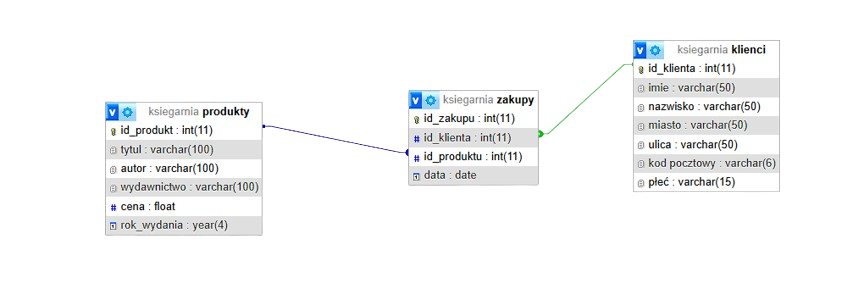
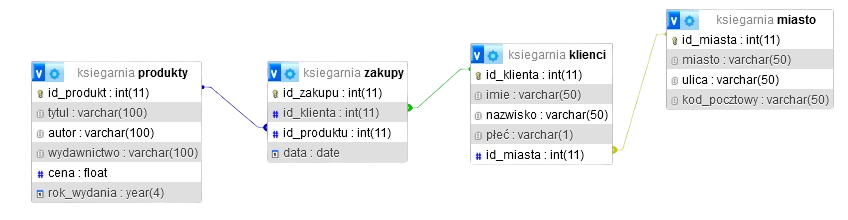
nice

Changed region(s): [[0.0307, 0.0273, 1.0, 0.9273]]

diff --git a/style.css b/style.css
@@ -1,7 +1,7 @@
 html, body {
-    background-color: #F72C5B;
+    background-color: gray;
     margin: 0;
-    font-family: Arial, sans-serif;
+    font-family: 'Lato', sans-serif;
     height: 100%;
 }
 
@@ -130,6 +130,10 @@ input[type="submit"]:hover, input[type="reset"]:hover {
 input[type="submit"]:active, input[type="reset"]:active {
     background-color: #003f7f;
     transform: scale(1);
+}
+
+.input-group input.same-length {
+    width: 200px; /* Ustaw szerokość dla pól wprowadzania */
 }
 
 .table-container {

diff --git a/wprowadz.php b/wprowadz.php
@@ -6,6 +6,7 @@
     <meta name="viewport" content="width=device-width, initial-scale=1.0">
     <title>Księgarnia</title>
     <link rel="icon" href="./image/books.png" type="image/x-icon">
+    <link href="https://fonts.googleapis.com/css2?family=Lato:wght@400;700&display=swap" rel="stylesheet">
 </head>
 <body>
     <header>
@@ -22,22 +23,21 @@
             <a href="./kasuj1.php" class="button-link">Skasuj dane książki</a>
             <a href="./mod.php" class="button-link">Modyfikuj dane klienta</a>
             <a href="./raport.php" class="button-link">Raport ze sprzedaży</a>
-            <a href="./zakupy.php" class="button-link">Zakup</a>
         </aside>
         <main>
             <form action="wprowadz.php" method="post">
                 <h2>Wprowadź dane klienta</h2>
 
                 <div class="input-group">
-                    <p>Imię: </p> <input type="text" name="name">
-                    <p>Nazwisko: </p> <input type="text" name="surname">
-                    <p>Płeć: </p> <input type="text" name="gender">
+                    <p>Imię: </p> <input type="text" name="name" class="same_lenght">
+                    <p>Nazwisko: </p> <input type="text" name="surname" class="same_lenght">
+                    <p>Płeć: </p> <input type="text" name="gender" class="same_lenght">
                 </div>
 
                 <div class="input-group">
-                    <p>Miasto: </p> <input type="text" name="city">
-                    <p>Ulica: </p> <input type="text" name="street">
-                    <p>Kod pocztowy: </p> <input type="text" name="zip">
+                    <p>Miasto: </p> <input type="text" name="city" class="same_lenght">
+                    <p>Ulica: </p> <input type="text" name="street" class="same_lenght">
+                    <p>Kod pocztowy: </p> <input type="text" name="zip" class="same_lenght">
                 </div>
 
                 <br><br>
@@ -46,6 +46,10 @@
 
                 <?php
                 $conn = mysqli_connect("localhost", "root", "", "ksiegarnia");
+                if (!$conn) {
+                    die("<h3>Nie udało się połączyć z bazą danych: " . mysqli_connect_error() . "</h3>");
+                }
+
                 if ($_SERVER["REQUEST_METHOD"] == "POST") {
                     
                     $name = $_POST["name"];
@@ -53,25 +57,30 @@
                     $gender = $_POST["gender"];
                     $city = $_POST["city"];
                     $street = $_POST["street"];
-                    $zip = $_POST["zip"];
+                    $zip = isset($_POST["zip"]) ? $_POST["zip"] : '';
 
                     if (empty($name) || empty($surname) || empty($city) || empty($street) || empty($zip)) {
                         echo "<h3>Proszę uzupełnić wszystkie wymagane pola.</h3>";
+                        return;
                     } else {
-                        $sql = "INSERT INTO `klienci` (`id_klienta`, `imie`, `nazwisko`, `miasto`, `ulica`, `kod pocztowy`, `płeć`) VALUES (NULL, '$name', '$surname', '$city', '$street', '$zip', '$gender');";
-                        $result = mysqli_query($conn, $sql);
+                        $sql1 = "INSERT INTO `miasto` (`id_miasta`, `miasto`, `ulica`, `kod_pocztowy`) VALUES (NULL, '$city', '$street', '$zip')";
+                        $result1 = mysqli_query($conn, $sql1);
                         
-                        if ($result) {
+                        $id_miasta = mysqli_insert_id($conn);
+                        $sql2 = "INSERT INTO `klienci` (`id_klienta`, `imie`, `nazwisko`, `płeć`, `id_miasta`) VALUES (NULL, '$name', '$surname', '$gender', '$id_miasta')";
+                        $result2 = mysqli_query($conn, $sql2);
+
+                        if ($result2 && $result1) {
                             echo "<h3>Dane zostały wprowadzone pomyślnie.</h3>";
                         } else {
                             echo "<h3>Wystąpił błąd przy wprowadzaniu danych.</h3>";
+                            return;
                         }
                     }
 
                     mysqli_close($conn);
                 }
                 ?>
-
             </form>
         </main>
     </div>    

diff --git a/mod.php b/mod.php
@@ -6,6 +6,7 @@
     <meta name="viewport" content="width=device-width, initial-scale=1.0">
     <title>Księgarnia</title>
     <link rel="icon" href="./image/books.png" type="image/x-icon">
+    <link href="https://fonts.googleapis.com/css2?family=Lato:wght@400;700&display=swap" rel="stylesheet">
 </head>
 <body>
     <header>
@@ -22,25 +23,24 @@
             <a href="./kasuj1.php" class="button-link">Skasuj dane książki</a>
             <a href="./mod.php" class="button-link">Modyfikuj dane klienta</a>
             <a href="./raport.php" class="button-link">Raport ze sprzedaży</a>
-            <a href="./zakupy.php" class="button-link">Zakup</a>
         </aside>
         <main>
             <form action="mod.php" method="post">
                 <h2>Wprowadź dane klienta</h2>
 
                 <div class="input-group">
-                    <p>ID</p> <input type="number" name="id">
+                    <p>ID: </p> <input type="number" name="id" class="same_lenght">
                 </div>
                 <div class="input-group">
-                    <p>Imię: </p> <input type="text" name="name">
-                    <p>Nazwisko: </p> <input type="text" name="surname">
-                    <p>Płeć: </p> <input type="text" name="gender">
+                    <p>Imię: </p> <input type="text" name="name" class="same_lenght">
+                    <p>Nazwisko: </p> <input type="text" name="surname" class="same_lenght">
+                    <p>Płeć: </p> <input type="text" name="gender" class="same_lenght">
                 </div>
 
                 <div class="input-group">
-                    <p>Miasto: </p> <input type="text" name="city">
-                    <p>Ulica: </p> <input type="text" name="street">
-                    <p>Kod pocztowy: </p> <input type="text" name="zip">
+                    <p>Miasto: </p> <input type="text" name="city" class="same_lenght">
+                    <p>Ulica: </p> <input type="text" name="street" class="same_lenght">
+                    <p>Kod pocztowy: </p> <input type="text" name="zip" class="same_lenght">
                 </div>
 
                 <br><br>
@@ -62,12 +62,21 @@
                     if (empty($name) || empty($surname) || empty($city) || empty($street) || empty($zip) || empty($id)) {
                         echo "<h3>Proszę uzupełnić wszystkie wymagane pola.</h3>";
                     } else {
-                        $sql = "
-                            UPDATE `klienci` SET `imie` = '$name', `nazwisko` = '$surname', `miasto` = '$city', `ulica` = '$street', `kod pocztowy` = '$zip', `płeć` = '$gender' WHERE `klienci`.`id_klienta` = $id;
+                        $sql1 = "
+                            UPDATE `miasto` 
+                            SET `miasto` = '$city', `ulica` = '$street', `kod_pocztowy` = '$zip' 
+                            WHERE `id_miasta` = (SELECT `id_miasta` FROM `klienci` WHERE `id_klienta` = $id);
                         ";
-                        $result = mysqli_query($conn, $sql);
+                        $result1 = mysqli_query($conn, $sql1);
+
+                        $sql2 = "
+                            UPDATE `klienci` 
+                            SET `imie` = '$name', `nazwisko` = '$surname', `płeć` = '$gender' 
+                            WHERE `id_klienta` = $id;
+                        ";
+                        $result2 = mysqli_query($conn, $sql2);
                         
-                        if ($result) {
+                        if ($result1 && $result2) {
                             echo "<h3>Dane zostały zmodyfikowane.</h3>";
                         } else {
                             echo "<h3>Wystąpił błąd przy wprowadzaniu danych.</h3>";
@@ -79,6 +88,7 @@
                 ?>
 
             </form>
+        </main>
     </div>
     
     <footer>

diff --git a/wyswietl.php b/wyswietl.php
@@ -6,6 +6,7 @@
     <meta name="viewport" content="width=device-width, initial-scale=1.0">
     <title>Księgarnia</title>
     <link rel="icon" href="./image/books.png" type="image/x-icon">
+    <link href="https://fonts.googleapis.com/css2?family=Lato:wght@400;700&display=swap" rel="stylesheet">
 </head>
 <body>
     <header>
@@ -22,10 +23,9 @@
             <a href="./kasuj1.php" class="button-link">Skasuj dane książki</a>
             <a href="./mod.php" class="button-link">Modyfikuj dane klienta</a>
             <a href="./raport.php" class="button-link">Raport ze sprzedaży</a>
-            <a href="./zakupy.php" class="button-link">Zakup</a>
         </aside>
         <main>
-            <h2>Wyświtel Bazę</h2>
+            <h2>Wyświetl Bazę</h2>
             <form action="wyswietl.php" method="POST">
                 <button type="submit" name="database" value="clients" class="styled-button">Wyświetl bazę klientów</button>
                 <button type="submit" name="database" value="products" class="styled-button">Wyświetl bazę produktów</button>
@@ -38,13 +38,16 @@
                 } 
 
                 if ($_POST['database'] == 'clients') {
-                    $sql = 'SELECT * FROM `klienci`;';
+                    $sql = 'SELECT klienci.id_klienta, klienci.imie, klienci.nazwisko, klienci.płeć, miasto.miasto, miasto.ulica, miasto.kod_pocztowy 
+                            FROM klienci 
+                            INNER JOIN miasto ON klienci.id_miasta = miasto.id_miasta;';
                     $result = mysqli_query($conn, $sql);
+
                     echo "<div class='table-container'>
                             <table border=\"2\">
                                 <tr>
                                     <th>Id klienta</th>
-                                    <th>Imie</th>
+                                    <th>Imię</th>
                                     <th>Nazwisko</th>
                                     <th>Miasto</th>
                                     <th>Ulica</th>
@@ -56,10 +59,10 @@
                                 <td>" . $row[0] . "</td>
                                 <td>" . $row[1] . "</td>
                                 <td>" . $row[2] . "</td>
-                                <td>" . $row[3] . "</td>
                                 <td>" . $row[4] . "</td>
                                 <td>" . $row[5] . "</td>
                                 <td>" . $row[6] . "</td>
+                                <td>" . $row[3] . "</td>
                             </tr>";
                     }
                     echo "</table></div>";

diff --git a/wprowadz1.php b/wprowadz1.php
@@ -6,6 +6,7 @@
     <meta name="viewport" content="width=device-width, initial-scale=1.0">
     <title>Księgarnia</title>
     <link rel="icon" href="./image/books.png" type="image/x-icon">
+    <link href="https://fonts.googleapis.com/css2?family=Lato:wght@400;700&display=swap" rel="stylesheet">
 </head>
 <body>
     <header>
@@ -22,25 +23,24 @@
             <a href="./kasuj1.php" class="button-link">Skasuj dane książki</a>
             <a href="./mod.php" class="button-link">Modyfikuj dane klienta</a>
             <a href="./raport.php" class="button-link">Raport ze sprzedaży</a>
-            <a href="./zakupy.php" class="button-link">Zakup</a>
         </aside>
         <main>
             <form action="wprowadz1.php" method="post">
                 <h2>Wprowadź dane klienta</h2>
 
                 <div class="input-group">
-                    <p>Tytuł: </p> <input type="text" name="title">
-                    <p>Autor: </p> <input type="text" name="author">
-                    <p>Wydawnictwo: </p> <input type="text" name="publish">
+                    <p>Tytuł: </p> <input type="text" name="title" class="same_lenght">
+                    <p>Autor: </p> <input type="text" name="author" class="same_lenght">
+                    <p>Wydawnictwo: </p> <input type="text" name="publish" class="same_lenght">
                 </div>
 
                 <div class="input-group">
-                    <p>Cena: </p> <input type="text" name="price">
-                    <p>Rok: </p> <input type="text" name="year">
+                    <p>Cena: </p> <input type="text" name="price" class="same_lenght">
+                    <p>Rok: </p> <input type="text" name="year" class="same_lenght">
                 </div>
 
                 <br><br>
-                <input type="submit" value="Wprowadź dane" class="styled-button">
+                <input type="submit" value="Wprowadź dane" class="styled-button" >
                 <input type="reset" value="Wyczyść formularz" class="styled-button">
 
                 <?php

diff --git a/kasuj.php b/kasuj.php
@@ -6,6 +6,7 @@
     <meta name="viewport" content="width=device-width, initial-scale=1.0">
     <title>Księgarnia</title>
     <link rel="icon" href="./image/books.png" type="image/x-icon">
+    <link href="https://fonts.googleapis.com/css2?family=Lato:wght@400;700&display=swap" rel="stylesheet">
 </head>
 <body>
     <header>
@@ -22,14 +23,13 @@
             <a href="./kasuj1.php" class="button-link">Skasuj dane książki</a>
             <a href="./mod.php" class="button-link">Modyfikuj dane klienta</a>
             <a href="./raport.php" class="button-link">Raport ze sprzedaży</a>
-            <a href="./zakupy.php" class="button-link">Zakup</a>
         </aside>
         <main>
             <form action="kasuj.php" method="post">
                 <h2>Usuń dane klienta</h2>
 
                 <div class="input-group">
-                    <p>Podaj ID </p> <input type="number" name="id">
+                    <p>Podaj ID </p> <input type="number" name="id" class="same_lenght">
                 </div>
 
                 <br><br>
@@ -47,11 +47,14 @@
                     } else {
                         $sql = "DELETE FROM klienci WHERE `klienci`.`id_klienta` = $id;";
                         $result = mysqli_query($conn, $sql);
+
+                        $sql2 = "DELETE FROM `miasto` WHERE `miasto`.`id_miasta` NOT IN (SELECT id_miasta FROM klienci)";
+                        $result2 = mysqli_query($conn, $sql2);
                         
-                        if ($result) {
+                        if ($result && $result2) {
                             echo "<h3>Dane zostały usunięte pomyślnie.</h3>";
                         } else {
-                            echo "<h3>Wystąpił błąd przy wprowadzaniu danych.</h3>";
+                            echo "<h3>Wystąpił błąd przy usuwaniu danych.</h3>";
                         }
                     }
 

diff --git a/raport.php b/raport.php
@@ -6,6 +6,7 @@
     <meta name="viewport" content="width=device-width, initial-scale=1.0">
     <title>Księgarnia</title>
     <link rel="icon" href="./image/books.png" type="image/x-icon">
+    <link href="https://fonts.googleapis.com/css2?family=Lato:wght@400;700&display=swap" rel="stylesheet">
 </head>
 <body>
     <header>
@@ -22,19 +23,18 @@
             <a href="./kasuj1.php" class="button-link">Skasuj dane książki</a>
             <a href="./mod.php" class="button-link">Modyfikuj dane klienta</a>
             <a href="./raport.php" class="button-link">Raport ze sprzedaży</a>
-            <a href="./zakupy.php" class="button-link">Zakup</a>
         </aside>
         <main>
             <h2>Wyświtel Bazę</h2>
             <form action="raport.php" method="POST">
             <div class="input-group">
-                    <p>Od: </p> <input type="text" name="od">
-                    <p>Do: </p> <input type="text" name="do">
+                    <p>Od: </p> <input type="text" name="od" class="same_lenght">
+                    <p>Do: </p> <input type="text" name="do" class="same_lenght">
                 </div>
 
                 <br><br>
-                <input type="submit" value="Wprowadź dane" class="styled-button">
-                <input type="reset" value="Wyczyść formularz" class="styled-button">
+                <input type="submit" value="Wprowadź dane" class="styled-button" class="same_lenght">
+                <input type="reset" value="Wyczyść formularz" class="styled-button" class="same_lenght">
             </form>
             <?php
             $conn = mysqli_connect("localhost", "root", "", "ksiegarnia");

diff --git a/kasuj1.php b/kasuj1.php
@@ -6,6 +6,7 @@
     <meta name="viewport" content="width=device-width, initial-scale=1.0">
     <title>Księgarnia</title>
     <link rel="icon" href="./image/books.png" type="image/x-icon">
+    <link href="https://fonts.googleapis.com/css2?family=Lato:wght@400;700&display=swap" rel="stylesheet">
 </head>
 <body>
     <header>
@@ -22,14 +23,13 @@
             <a href="./kasuj1.php" class="button-link">Skasuj dane książki</a>
             <a href="./mod.php" class="button-link">Modyfikuj dane klienta</a>
             <a href="./raport.php" class="button-link">Raport ze sprzedaży</a>
-            <a href="./zakupy.php" class="button-link">Zakup</a>
         </aside>
         <main>
             <form action="kasuj1.php" method="post">
                 <h2>Usuń dane książki</h2>
 
                 <div class="input-group">
-                    <p>Podaj ID </p> <input type="number" name="id">
+                    <p>Podaj ID </p> <input type="number" name="id" class="same_lenght">
                 </div>
 
                 <br><br>

diff --git a/index.php b/index.php
@@ -6,6 +6,7 @@
     <meta name="viewport" content="width=device-width, initial-scale=1.0">
     <title>Księgarnia</title>
     <link rel="icon" href="./image/books.png" type="image/x-icon">
+    <link href="https://fonts.googleapis.com/css2?family=Lato:wght@400;700&display=swap" rel="stylesheet">
 </head>
 <body>
     <header>
@@ -22,7 +23,6 @@
             <a href="./kasuj1.php" class="button-link">Skasuj dane książki</a>
             <a href="./mod.php" class="button-link">Modyfikuj dane klienta</a>
             <a href="./raport.php" class="button-link">Raport ze sprzedaży</a>
-            <a href="./zakupy.php" class="button-link">Zakup</a>
         </aside>
         <main>
             <div>

diff --git a/model.php b/model.php
@@ -6,6 +6,7 @@
     <meta name="viewport" content="width=device-width, initial-scale=1.0">
     <title>Księgarnia</title>
     <link rel="icon" href="./image/books.png" type="image/x-icon">
+    <link href="https://fonts.googleapis.com/css2?family=Lato:wght@400;700&display=swap" rel="stylesheet">
 </head>
 <body>
     <header>
@@ -22,7 +23,6 @@
             <a href="./kasuj1.php" class="button-link">Skasuj dane książki</a>
             <a href="./mod.php" class="button-link">Modyfikuj dane klienta</a>
             <a href="./raport.php" class="button-link">Raport ze sprzedaży</a>
-            <a href="./zakupy.php" class="button-link">Zakup</a>
         </aside>
         <main>
             <div>
